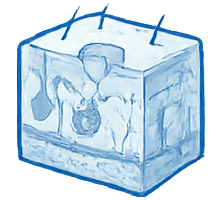
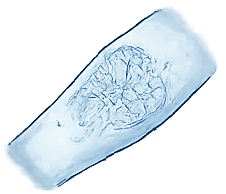
added images to the diseases of explore more

diff --git a/src/components/Diseases/Diseases.jsx b/src/components/Diseases/Diseases.jsx
@@ -12,16 +12,19 @@ import d9 from "../../assets/images/d9.png";
 import d10 from "../../assets/images/d10.png";
 import m1 from "../../assets/images/m1.png";
 import m2 from "../../assets/images/m2.png";
+import m3 from "../../assets/images/m3.png";
+import m4 from "../../assets/images/m4.png";
 import m5 from "../../assets/images/m5.png";
 import m6 from "../../assets/images/m6.png";
 import m7 from "../../assets/images/m7.png";
-import m8 from "../../assets/images/m8.png";
-// import m9 from "../../assets/images/m9.png";
+
+import m9 from "../../assets/images/m9.png";
 import m10 from "../../assets/images/m10.png";
 import m11 from "../../assets/images/m11.png";
 import m12 from "../../assets/images/m12.png";
+import m13 from "../../assets/images/m13.png";
 import m14 from "../../assets/images/m14.png";
-// import m9 from "../../assets/images/m9.png";
+import m15 from "../../assets/images/m15.png";
 import m16 from "../../assets/images/m16.png";
 import m17 from "../../assets/images/m17.png";
 import { Link } from "react-router-dom";
@@ -44,31 +47,31 @@ const modalDiseases = [
   // Cardiology
   { img: m1,name: "Coronary Artery Disease", desc: "Blocked heart arteries", category: "Cardiology" },
   { img: m2,name: "Arrhythmia", desc: "Irregular heart rhythm disorder", category: "Cardiology" },
-  { name: "Cardiomyopathy", desc: "Heart muscle disease", category: "Cardiology" },
+  { img: m3,name: "Cardiomyopathy", desc: "Heart muscle disease", category: "Cardiology" },
 
   // Neurology
-  { name: "Stroke", desc: "Brain blood flow interruption", category: "Neurology" },
+  { img: m4,name: "Stroke", desc: "Brain blood flow interruption", category: "Neurology" },
   { img: m5,name: "Epilepsy", desc: "Seizure disorder", category: "Neurology" },
-  {name: "Parkinson’s Disease", desc: "Progressive nervous system disorder", category: "Neurology" },
+  { img: m6,name: "Parkinson’s Disease", desc: "Progressive nervous system disorder", category: "Neurology" },
 
   // Oncology
   {img: m7, name: "Lung Cancer", desc: "Malignant lung tumor", category: "Oncology" },
-  { name: "Breast Cancer", desc: "Cancer affecting breast tissue", category: "Oncology" },
-  { name: "Leukemia", desc: "Blood cancer", category: "Oncology" },
+  
+  { img: m9,name: "Leukemia", desc: "Blood cancer", category: "Oncology" },
 
   // Gastroenterology
   {img: m10, name: "Pancreatitis", desc: "Inflammation of pancreas", category: "Gastroenterology" },
   {img: m11, name: "Hepatitis B", desc: "Liver infection", category: "Gastroenterology" },
 
   // Nephrology
-  { name: "Chronic Kidney Disease", desc: "Gradual kidney function loss", category: "Nephrology" },
+  {img: m12, name: "Chronic Kidney Disease", desc: "Gradual kidney function loss", category: "Nephrology" },
 
   // Pulmonology
-  { name: "COPD", desc: "Chronic obstructive pulmonary disease", category: "Pulmonology" },
+  { img: m13,name: "COPD", desc: "Chronic obstructive pulmonary disease", category: "Pulmonology" },
 
   // Dermatology
   {img: m14, name: "Psoriasis", desc: "Chronic skin condition", category: "Dermatology" },
-  { name: "Melanoma", desc: "Serious skin cancer", category: "Dermatology" },
+  { img: m15,name: "Melanoma", desc: "Serious skin cancer", category: "Dermatology" },
 
   // Orthopedics
   {img: m16, name: "Rheumatoid Arthritis", desc: "Autoimmune joint disorder", category: "Orthopedics" },
